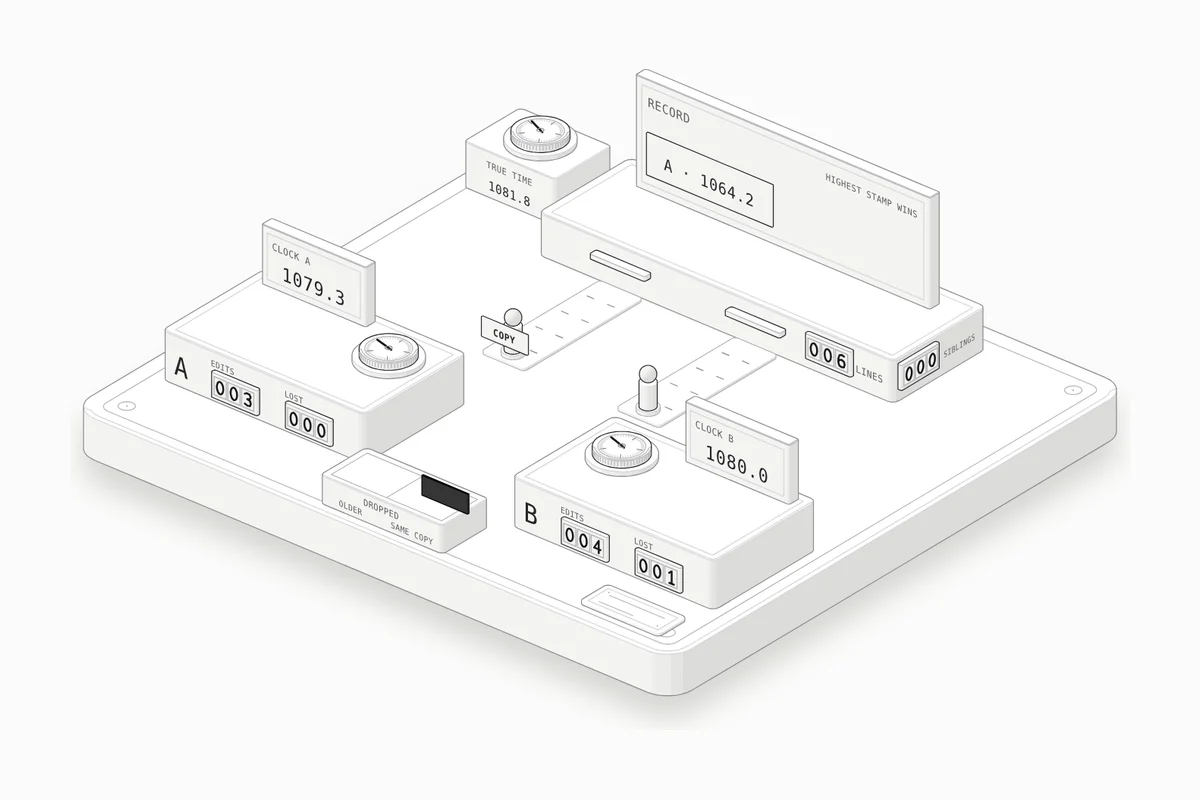
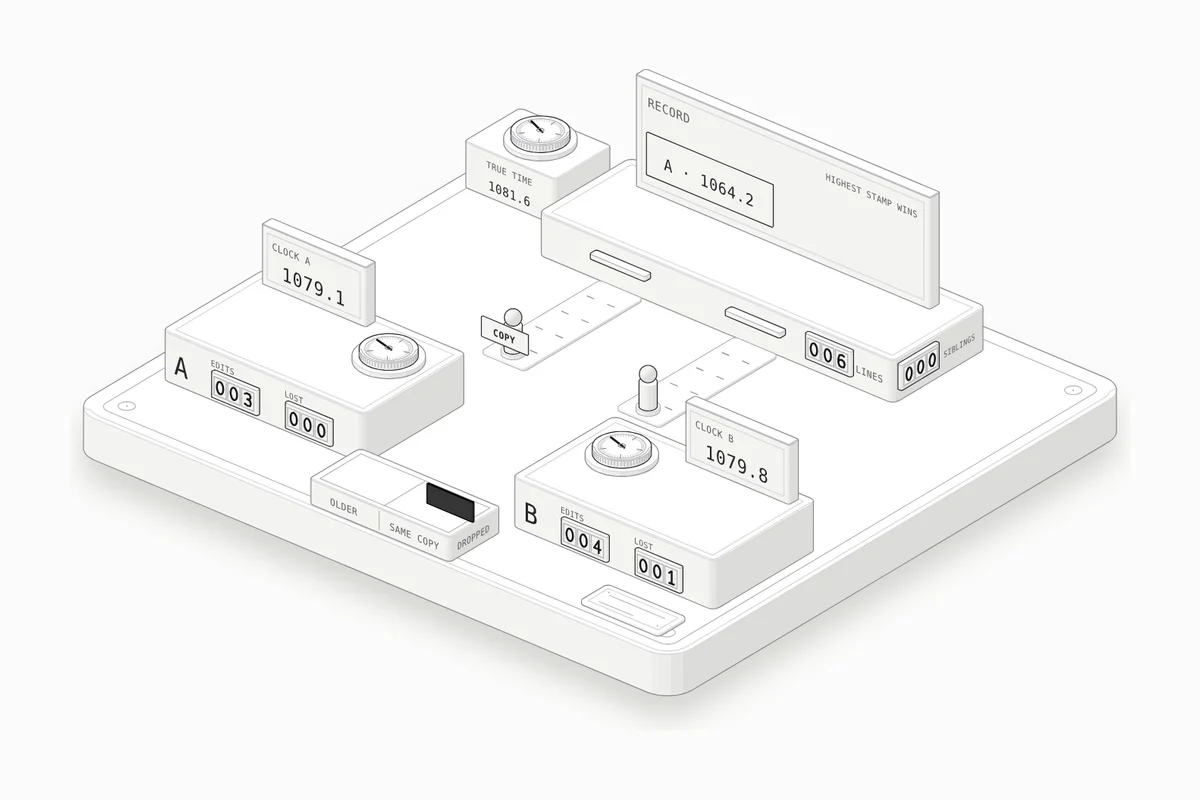
Lesson 61: ANTERIOR for the Spanish OLDER bin; tray labels at caption size, one per bin
The tray is now lower and a little wider and deeper, clear of the offices' counters. Each bin's name sits on its own half of the front, and DROPPED is on the tray's right side.

Claude-Session: https://claude.ai/code/session_01S5z2gCvevbrGU3fXgpGDmP

Changed region(s): [[0.2467, 0.5625, 0.4317, 0.7188], [0.5858, 0.5625, 0.6167, 0.5938]]

diff --git a/src/lessons/clocks/figure.ts b/src/lessons/clocks/figure.ts
@@ -38,8 +38,9 @@ const LANE = { y: DESK_FRONT + 1, d: 0 };
 LANE.d = HOME_Y + 4 - LANE.y;
 
 // The DROPPED tray, at the front between the offices: two bins, OLDER on the left, SAME COPY on the right.
-export const TRAY = { x: -20, y: 42, w: 40, d: 18, r: 1.4 };
-const TRAY_H = 8;
+// Low and clear of the offices' front faces, so it hides none of their counters.
+export const TRAY = { x: -22, y: 42, w: 46, d: 20, r: 1.4 };
+const TRAY_H = 7;
 export const TRAY_SPOTS = [0, 1].map((b) => [TRAY.x + TRAY.w * (b ? 0.75 : 0.25), TRAY.y + TRAY.d / 2, TRAY_H]);
 
 // The offices.
@@ -133,10 +134,12 @@ function tray() {
   // the divider between the two bins
   const xm = TRAY.x + TRAY.w / 2;
   out.push(L(k.lineOnTop([xm, TRAY.y + 2], [xm, TRAY.y + TRAY.d - 2], TRAY_H, P), { tone: "lo" }));
-  const front = TRAY.y + TRAY.d;
-  out.push(text(xm, front, 4.6, t("DROPPED", "DESCARTE"), 2.6, { anchor: "middle" }));
-  out.push(text(TRAY_SPOTS[0][0], front, 1.4, t("OLDER", "ANTE VIEJA"), 2.4, { anchor: "middle" }));
-  out.push(text(TRAY_SPOTS[1][0], front, 1.4, t("SAME COPY", "MISMA COPIA"), 2.4, { anchor: "middle" }));
+  // each bin's name on its own half of the front, split by a rule; DROPPED on the right side
+  const front = TRAY.y + TRAY.d, side = TRAY.x + TRAY.w;
+  out.push(L(k.segment([xm, front, 0.8], [xm, front, TRAY_H - 0.8], P), { tone: "lo" }));
+  out.push(text(TRAY_SPOTS[0][0], front, 2.2, t("OLDER", "ANTERIOR"), 2.8, { anchor: "middle" }));
+  out.push(text(TRAY_SPOTS[1][0], front, 2.2, t("SAME COPY", "MISMA COPIA"), 2.8, { anchor: "middle" }));
+  out.push(faceText(P, [side, front - 3, 2.2], t("DROPPED", "DESCARTE"), { face: "x", size: 2.8, tone: "mid" }));
   return out.join("");
 }
 
@@ -185,8 +188,8 @@ export function buildFigure() {
     width: WIDTH,
     height: HEIGHT,
     label: t(
-      "Two offices and a records desk on a base plate. At the front, offices A and B each have a wall clock, a display with the reading in milliseconds and a dial beside it, and counters for the edits the office made and the ones that were lost. At the back, the records desk has a board showing the record it holds: the stamp of the edit it kept, and with vector clocks a second card for a sibling, lit. A counter on the desk shows the lines on the record and one on its side the siblings kept. A lane runs from each office to the desk; on it the office's courier carries a GET, a copy, an edit with its stamp, or an OK. Edits the desk drops fall, lit, into the DROPPED tray at the front, between the offices: into its OLDER bin when the edit lost to one its writer had already read, into SAME COPY when two edits were made from one copy; the last three stay in each bin. In the back corner, a tower shows the true time.",
-      "Dos oficinas y una mesa de registros sobre una placa base. Adelante, las oficinas A y B tienen cada una un reloj de pared, una pantalla con la lectura en milisegundos y un dial al lado, y contadores de las ediciones que hizo la oficina y de las que se perdieron. Al fondo, la mesa de registros tiene un tablero con el registro que guarda: el sello de la edición que conservó y, con relojes vectoriales, una segunda tarjeta encendida para una versión hermana. Un contador en la mesa muestra las líneas del registro y otro a un costado las hermanas guardadas. De cada oficina sale un carril hasta la mesa; por él, el mensajero de la oficina lleva un GET, una copia, una edición con su sello o un OK. Las ediciones que la mesa descarta caen, encendidas, en la bandeja DESCARTE al frente, entre las oficinas: en su compartimento ANTE VIEJA cuando la edición perdió ante una que su autor ya había leído, en MISMA COPIA cuando dos ediciones se hicieron desde una misma copia; las tres últimas quedan en cada compartimento. En la esquina del fondo, una torre muestra la hora real.",
+      "Two offices and a records desk on a base plate. At the front, offices A and B each have a wall clock, a display with the reading in milliseconds and a dial beside it, and counters for the edits the office made and the ones that were lost. At the back, the records desk has a board showing the record it holds: the stamp of the edit it kept, and with vector clocks a second card for a sibling, lit. A counter on the desk shows the lines on the record and one on its side the siblings kept. A lane runs from each office to the desk; on it the office's courier carries a GET, a copy, an edit with its stamp, or an OK. Edits the desk drops fall, lit, into the DROPPED tray (named on its right side) at the front, between the offices: into its OLDER bin when the edit lost to one its writer had already read, into SAME COPY when two edits were made from one copy; the last three stay in each bin. In the back corner, a tower shows the true time.",
+      "Dos oficinas y una mesa de registros sobre una placa base. Adelante, las oficinas A y B tienen cada una un reloj de pared, una pantalla con la lectura en milisegundos y un dial al lado, y contadores de las ediciones que hizo la oficina y de las que se perdieron. Al fondo, la mesa de registros tiene un tablero con el registro que guarda: el sello de la edición que conservó y, con relojes vectoriales, una segunda tarjeta encendida para una versión hermana. Un contador en la mesa muestra las líneas del registro y otro a un costado las hermanas guardadas. De cada oficina sale un carril hasta la mesa; por él, el mensajero de la oficina lleva un GET, una copia, una edición con su sello o un OK. Las ediciones que la mesa descarta caen, encendidas, en la bandeja DESCARTE (el nombre en su costado derecho) al frente, entre las oficinas: en su compartimento ANTERIOR cuando la edición perdió ante una que su autor ya había leído, en MISMA COPIA cuando dos ediciones se hicieron desde una misma copia; las tres últimas quedan en cada compartimento. En la esquina del fondo, una torre muestra la hora real.",
     ),
     body: [
       plate(),

diff --git a/src/lessons/clocks/page.ts b/src/lessons/clocks/page.ts
@@ -201,7 +201,7 @@ export default defineLesson({
     plate: {
       title: t("Records desk", "Mesa de registros"),
       keys: [
-        { mark: "lit", label: t("An edit the desk drops, into OLDER (it had read the edit that beat it) or SAME COPY; a sibling kept beside the record", "Una edición que la mesa descarta, en ANTE VIEJA (había leído la edición que le ganó) o en MISMA COPIA; una hermana guardada junto al registro") },
+        { mark: "lit", label: t("An edit the desk drops, into OLDER (it had read the edit that beat it) or SAME COPY; a sibling kept beside the record", "Una edición que la mesa descarta, en ANTERIOR (había leído la edición que le ganó) o en MISMA COPIA; una hermana guardada junto al registro") },
         { mark: "raised", label: t("Couriers: a GET, a copy, a stamped edit or an OK", "Mensajeros: un GET, una copia, una edición sellada o un OK") },
         { mark: "flat", label: t("The lanes between each office and the desk", "Los carriles entre cada oficina y la mesa") },
       ],
